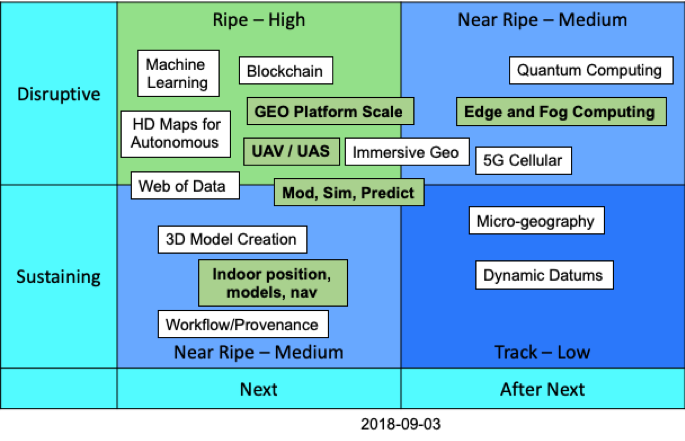
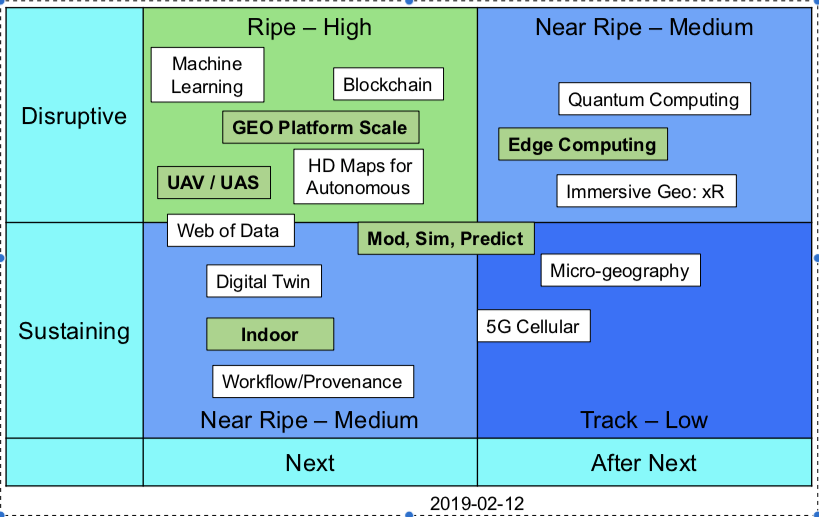
201902 update
Quarterly update of mind map and assessments

diff --git a/README.md b/README.md
@@ -3,7 +3,7 @@ Geospatial technology trends as tracked by the Open Geospatial Consortium (OGC) 
 
 Each Trend is linked to a GitHub issue - *Comments are welcome and encouraged on the issue linked to the trend*
 
-![Tech Trends](images/20181127TechTrendsMindMap.png)
+![Tech Trends](images/TechTrendsMindMap.png)
 
 ## Trends grouped into meta-trends:
 
